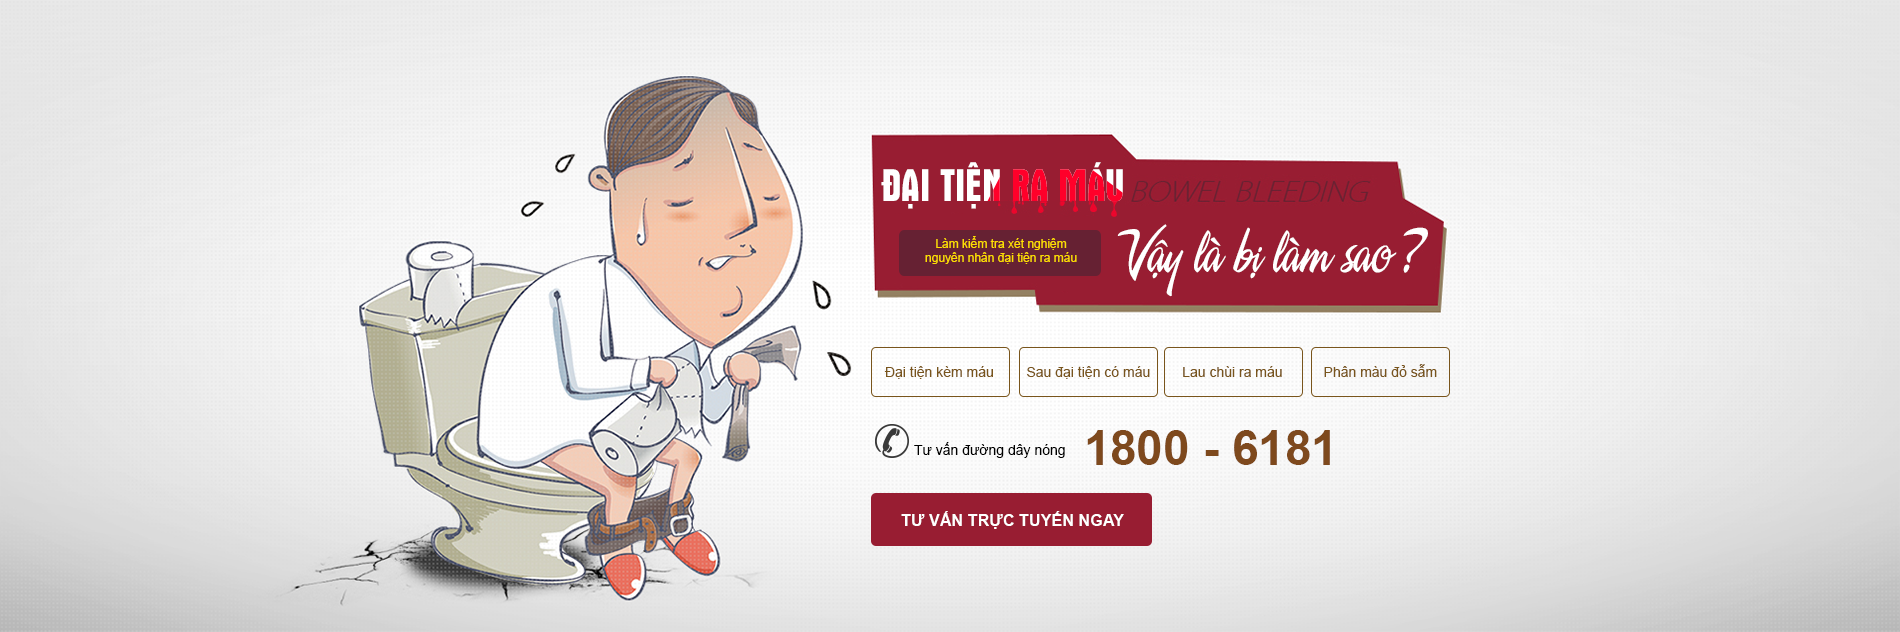
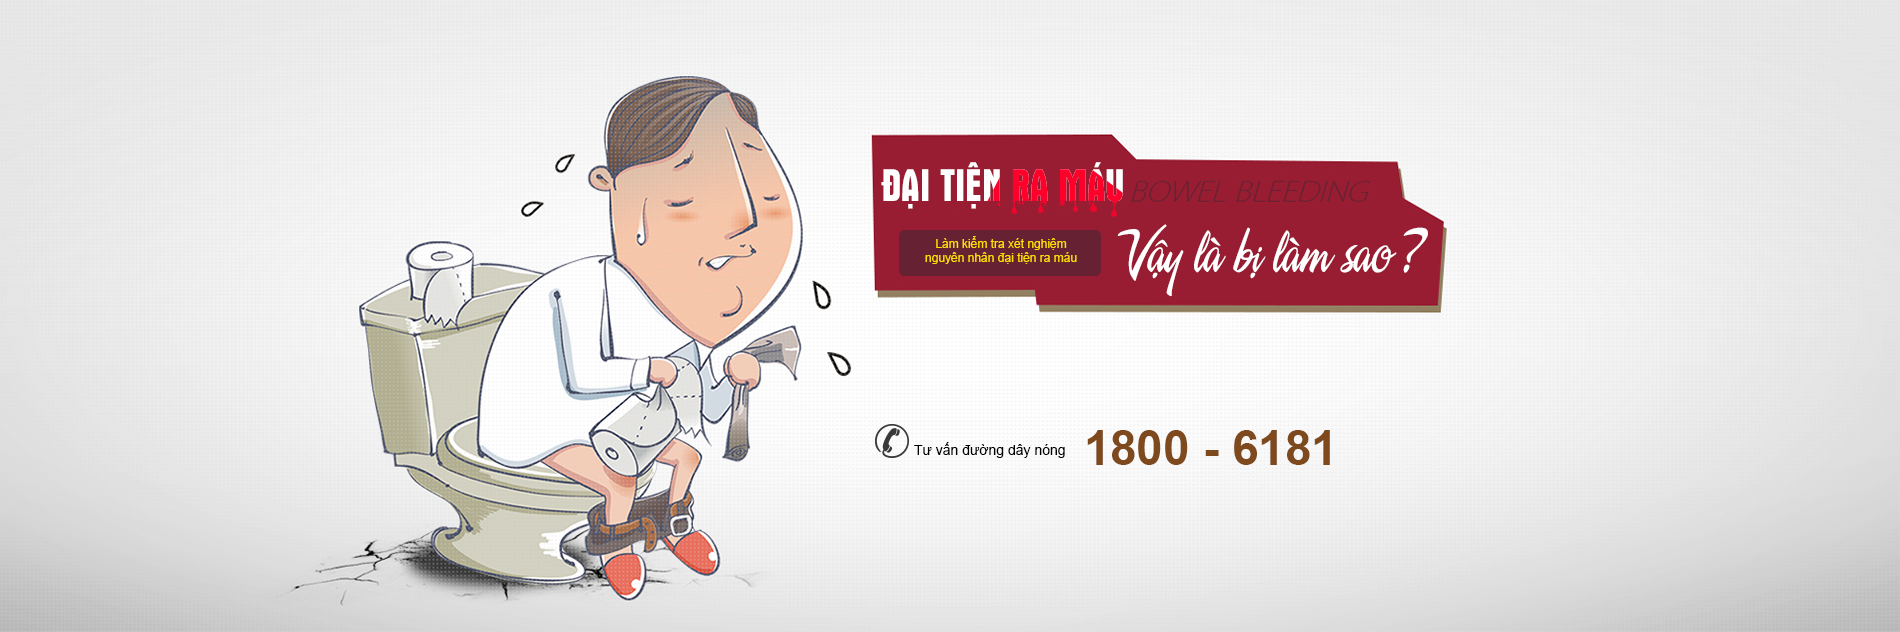
oke

Changed region(s): [[0.4347, 0.7816, 0.6211, 0.8718], [0.4658, 0.5712, 0.7763, 0.6013]]

diff --git a/public/css/chuyende2/chuyende2.css b/public/css/chuyende2/chuyende2.css
@@ -1,3 +1,15 @@
+.myBanner .btn{height: 50px;width: 150px;line-height: 50px;border:1px solid #79551c;color: #79551c;border-radius: 5px;display: inline-block;background-color: transparent;}
+.myBanner .btn.pos1{top:360px;left: 421px;}
+.myBanner .btn.pos2{top:360px;left: 580px;}
+.myBanner .btn.pos3{top:360px;left: 738px;}
+.myBanner .btn.pos4{top:360px;left: 896px;}
+.myBanner{background-image: url('chuyende-1.png');background-repeat: no-repeat;height: 632px;}
+.myBanner .btn2{height: 53px;line-height: 53px;background-color: #981d32;width: 281px;color: #fff;font-size: 16px;font-weight: bold;}
+.myBanner .btn2{left: 421px;top:495px;border-radius: 5px;}
+.myBanner .btn:hover{background-color: #79551c;color: #fff;}
+.myBanner .btn2:hover{background-color: #79551c;color: #fff;}
+
+/**/
 div.global1 .line1,div.global1 .line2{font-weight: bold;font-size: 24px;}
 div.global1 .line2{margin-top: 2px;}
 div.global1 .line3{font-size: 14px;color: #787878;margin-top: 10px;}
@@ -36,7 +48,7 @@ div.row1 .flex1col2 .label5{margin-top:25px;height: 46px;line-height: 46px;backg
 /**/
 div.row2{background-color: #f6eaec;padding-top: 35px;padding-bottom: 33px;}
 div.row2 .table{margin-top: 32px;}
-div.row2 .table table{border-spacing: 0px;color: #}
+div.row2 .table table{border-spacing: 0px;}
 div.row2 .table table tr td:nth-child(1){padding-right: 55px;}
 div.row2 .table table tr td{padding-bottom:25px;}
 div.row2 .table table tr td >div{position: relative;padding-left: 40px;}
@@ -54,6 +66,7 @@ div.row3 .flex1col1{width: 243px;}
 div.row3 .flex1col2{width: 660px;}
 div.row3 .flex1col2 .label{background-color: #981d32;color: #fff;text-align: center;height: 33px;width: 250px;line-height: 33px;display: inline-block;}
 div.row3 .flex1col2 .table{margin-top: 20px;margin-bottom: 20px;}
+div.row3 .flex1col2 .table td{width: 33.33%}
 div.row3 .flex1col2 .table input{margin-right: 10px;vertical-align: -2px;}
 div.row3 .btn{margin-top: 30px;}
 div.row3 .btn a{width: 270px;height: 43px;border:1px solid #797979;border-radius: 10px;line-height: 43px;}
@@ -79,7 +92,7 @@ div.row5 .flex1col1{width: 460px;background-color: #fff;}
 div.row5 .flex1col2{width: 468px;background-color: #fff;}
 div.row5 .flex1col1{padding:47px 40px;}
 div.row5 .title1{color: #333333;display: inline-block;padding-bottom: 10px;border-bottom: 1px solid #333333;}
-div.row5 .flex1col1 .name{color: #191919;margin-top: 25px;}
+div.row5 .flex1col1 .name{color: #191919;margin-top: 50px;}
 div.row5 .flex1col1 .img{margin-top: 5px;}
 div.row5 .flex1col1 .btn{margin-top: 45px;text-align: center;}
 div.row5 .flex1col1 .btn a{width: 355px;height: 43px;border:1px solid #797979;border-radius: 10px;line-height: 43px;}
@@ -120,7 +133,6 @@ div.row6 .table2 tr td{width: 20%;}
 .row9 .lists i{color: #794033;}
 .row9 .lists a{margin-left: 10px;}
 .row9 .lists a:nth-child(1){margin-left: 35px;}
-.row9 .pos-absolute{left: calc(50% - 99px);top:-133px;}
 /*effect*/
 footer{margin-top: 0px;}
 .btn a:hover{background-color: #424242;border-color: #424242;color: #fff;}
@@ -128,9 +140,6 @@ footer{margin-top: 0px;}
 div.row1 .flex1col1 .bg a:hover{background-color: #424242;color: #fff;}
 div.row6 .table a:hover{text-decoration: underline;}
 div.row6 .table2 tr td a:hover{text-decoration: underline;color: #971e31;}
-
-/*popup*/
-/*.mypopup2 {border:1px solid #282828;border-radius: 5px;padding:15px 25px;color: #313131;width: 450px;position: fixed;top:0px;left: calc(50% - 225px);background-color: #fff;}
-.mypopup2 .content{margin-top: 25px;color: #313131}
-.mypopup2 .name button{border:none;box-shadow: none;outline: none;right: 0px;top:-5px;background-color: transparent;font-size: 20px;cursor: pointer;}
-.mypopup2 .close button{border:1px solid #e0e0e0;border-radius: 3px;height: 31px;width: 73px;text-align: center;text-transform: uppercase;background-color: transparent;cursor: pointer;}*/
+.row9 .lists a:hover{text-decoration: underline;color: #794033;}
+.row9 .sendmail button{cursor: pointer;}
+.row9 .sendmail button:hover{background-color: #43b3a3;}

diff --git a/resources/views/layouts/menuDesktop.blade.php b/resources/views/layouts/menuDesktop.blade.php
@@ -29,83 +29,83 @@
 	</div>
 </menu>
 <div class="row1">
-		<div class="container">
-			<div class="items">
-				<div class="item active">
-					<div class="dis-table table1">
-						<div class="table-cell cell1 bg1">
-							<a href="#">chuyên khoa<br>trĩ</a>
-						</div>
-						<div class="table-cell cell2">
-							<table class="width-100">
-								<tr>
-									<td class="text-left"><a href="{{ APITerm::getUrlByID(2) }}"><i class="fa fa-circle"></i> Trĩ ngoại</a></td>
-									<td class="text-left"><a href="{{ APITerm::getUrlByID(3) }}"><i class="fa fa-circle"></i> Trĩ nội</a></td>
-								</tr>
-								<tr>
-									<td class="text-left"><a href="{{ APITerm::getUrlByID(4) }}"><i class="fa fa-circle"></i> Trĩ hỗn hợp</a></td>
-								</tr>
-							</table>
-						</div>
+	<div class="container">
+		<div class="items">
+			<div class="item active">
+				<div class="dis-table table1">
+					<div class="table-cell cell1 bg1">
+						<a href="#">chuyên khoa<br>trĩ</a>
+					</div>
+					<div class="table-cell cell2">
+						<table class="width-100">
+							<tr>
+								<td class="text-left"><a href="{{ APITerm::getUrlByID(2) }}"><i class="fa fa-circle"></i> Trĩ ngoại</a></td>
+								<td class="text-left"><a href="{{ APITerm::getUrlByID(3) }}"><i class="fa fa-circle"></i> Trĩ nội</a></td>
+							</tr>
+							<tr>
+								<td class="text-left"><a href="{{ APITerm::getUrlByID(4) }}"><i class="fa fa-circle"></i> Trĩ hỗn hợp</a></td>
+							</tr>
+						</table>
 					</div>
 				</div>
-				<div class="item">
-					<div class="dis-table table1">
-						<div class="table-cell cell1 bg2">
-							<a href="#">bệnh quanh<br>hậu môn</a>
-						</div>
-						<div class="table-cell cell2">
-							<table class="width-100">
-								<tr>
-									<td class="text-left" style="vertical-align: top;"><a href="{{ APITerm::getUrlByID(6) }}"><i class="fa fa-circle"></i> Áp xe hậu môn</a></td>
-									<td class="text-left"><a href="{{ APITerm::getUrlByID(7) }}"><i class="fa fa-circle"></i> Ngứa rát hậu môn</a></td>
-								</tr>
-								<tr>
-									<td class="text-left"><a href="{{ APITerm::getUrlByID(8) }}"><i class="fa fa-circle"></i> Polyp hậu môn</a></td>
-									<td class="text-left"><a href="{{ APITerm::getUrlByID(9) }}"><i class="fa fa-circle"></i> Đau hậu môn</a></td>
-								</tr>
-								<tr>
-									<td class="text-left"><a href="{{ APITerm::getUrlByID(10) }}"><i class="fa fa-circle"></i> Hậu môn có vật thể lạ</a></td>
-								</tr>
-							</table>
-						</div>
+			</div>
+			<div class="item">
+				<div class="dis-table table1">
+					<div class="table-cell cell1 bg2">
+						<a href="#">bệnh quanh<br>hậu môn</a>
+					</div>
+					<div class="table-cell cell2">
+						<table class="width-100">
+							<tr>
+								<td class="text-left" style="vertical-align: top;"><a href="{{ APITerm::getUrlByID(6) }}"><i class="fa fa-circle"></i> Áp xe hậu môn</a></td>
+								<td class="text-left"><a href="{{ APITerm::getUrlByID(7) }}"><i class="fa fa-circle"></i> Ngứa rát hậu môn</a></td>
+							</tr>
+							<tr>
+								<td class="text-left"><a href="{{ APITerm::getUrlByID(8) }}"><i class="fa fa-circle"></i> Polyp hậu môn</a></td>
+								<td class="text-left"><a href="{{ APITerm::getUrlByID(9) }}"><i class="fa fa-circle"></i> Đau hậu môn</a></td>
+							</tr>
+							<tr>
+								<td class="text-left"><a href="{{ APITerm::getUrlByID(10) }}"><i class="fa fa-circle"></i> Hậu môn có vật thể lạ</a></td>
+							</tr>
+						</table>
 					</div>
 				</div>
-				<div class="item">
-					<div class="dis-table table1">
-						<div class="table-cell cell1 bg3">
-							<a href="#">chấn thương<br>hậu môn</a>
-						</div>
-						<div class="table-cell cell2">
-							<table class="width-100">
-								<tr>
-									<td class="text-left"><a href="{{ APITerm::getUrlByID(12) }}"><i class="fa fa-circle"></i> Rò hậu môn</a></td>
-									<td class="text-left"><a href="{{ APITerm::getUrlByID(13) }}"><i class="fa fa-circle"></i> Nứt kẽ hậu môn</a></td>
-								</tr>
-								<tr>
-									<td class="text-left"><a href="{{ APITerm::getUrlByID(14) }}"><i class="fa fa-circle"></i> Sa trực tràng</a></td>
-								</tr>
-							</table>
-						</div>
+			</div>
+			<div class="item">
+				<div class="dis-table table1">
+					<div class="table-cell cell1 bg3">
+						<a href="#">chấn thương<br>hậu môn</a>
+					</div>
+					<div class="table-cell cell2">
+						<table class="width-100">
+							<tr>
+								<td class="text-left"><a href="{{ APITerm::getUrlByID(12) }}"><i class="fa fa-circle"></i> Rò hậu môn</a></td>
+								<td class="text-left"><a href="{{ APITerm::getUrlByID(13) }}"><i class="fa fa-circle"></i> Nứt kẽ hậu môn</a></td>
+							</tr>
+							<tr>
+								<td class="text-left"><a href="{{ APITerm::getUrlByID(14) }}"><i class="fa fa-circle"></i> Sa trực tràng</a></td>
+							</tr>
+						</table>
 					</div>
 				</div>
-				<div class="item">
-					<div class="dis-table table1">
-						<div class="table-cell cell1 bg4">
-							<a href="#">biểu hiện<br>thường gặp</a>
-						</div>
-						<div class="table-cell cell2">
-							<table class="width-100">
-								<tr>
-									<td class="text-left"><a href="{{ APITerm::getUrlByID(16) }}"><i class="fa fa-circle"></i> Đi ngoài ra máu</a></td>
-									<td class="text-left"><a href="{{ APITerm::getUrlByID(17) }}"><i class="fa fa-circle"></i> Táo bón</a></td>
-								</tr>
-							</table>
-						</div>
+			</div>
+			<div class="item">
+				<div class="dis-table table1">
+					<div class="table-cell cell1 bg4">
+						<a href="#">biểu hiện<br>thường gặp</a>
+					</div>
+					<div class="table-cell cell2">
+						<table class="width-100">
+							<tr>
+								<td class="text-left"><a href="{{ APITerm::getUrlByID(16) }}"><i class="fa fa-circle"></i> Đi ngoài ra máu</a></td>
+								<td class="text-left"><a href="{{ APITerm::getUrlByID(17) }}"><i class="fa fa-circle"></i> Táo bón</a></td>
+							</tr>
+						</table>
 					</div>
 				</div>
 			</div>
 		</div>
+	</div>
 </div>
 <div class="row2">
 	<div class="container">

diff --git a/resources/views/chuyende2.blade.php b/resources/views/chuyende2.blade.php
@@ -7,8 +7,12 @@
 @endsection('css')
 @section('banner')
 	<div class="myBanner">
-		<div>
-			<a href="http://swt.phongkham193.com/LR/Chatpre.aspx?id=MFI63108226&cid=1489654963660812714370&lng=en"><img src="{{ asset('public/css/chuyende2/chuyende-1.png') }}" alt="" class="center-block"></a>
+		<div class="pos-relative container2">
+			<a href="http://swt.phongkham193.com/LR/Chatpre.aspx?id=MFI63108226&cid=1489654963660812714370&lng=en" class="btn text-center pos-absolute pos1">Đại tiện kèm máu</a>
+			<a href="http://swt.phongkham193.com/LR/Chatpre.aspx?id=MFI63108226&cid=1489654963660812714370&lng=en" class="btn text-center pos-absolute pos2">Sau đại tiện có máu</a>
+			<a href="http://swt.phongkham193.com/LR/Chatpre.aspx?id=MFI63108226&cid=1489654963660812714370&lng=en" class="btn text-center pos-absolute pos3">Lau chùi ra máu</a>
+			<a href="http://swt.phongkham193.com/LR/Chatpre.aspx?id=MFI63108226&cid=1489654963660812714370&lng=en" class="btn text-center pos-absolute pos4">Phân màu đỏ sẫm</a>
+			<a href="http://swt.phongkham193.com/LR/Chatpre.aspx?id=MFI63108226&cid=1489654963660812714370&lng=en" class="btn2 text-center text-uppercase pos-absolute pos5">Tư vấn trực tuyến ngay</a>
 		</div>
 	</div>
 @endsection('banner')
@@ -226,18 +230,6 @@
 				</div>
 			</div>
 		</div>
-		<!-- <div class="mypopup2">
-			<div class="name pos-relative">
-				Hiển thị .comchuabenhtriohanoi
-				<button class="pos-absolute">x</button>
-			</div>
-			<div class="content text-justify">
-				Triệu chứng đại tiện ra máu của bạn là gì: <span>Máu màu nâu đậm, khi đại tiện nhỏ máu, không đau đớn, hậu môn ngứa ngáy;</span> những triệu chứng này cho thấy bạn đã mắc các chứng bệnh ở các giai đoạn khác nhau của bệnh hậu môn trực tràng! Hỏi thăm bác sĩ xem sao!
-			</div>
-			<div class="close text-right">
-				<button>OK</button>
-			</div>
-		</div> -->
 		<script>
 		function openswt(){
 		    window.open('http://swt.phongkham193.com/LR/Chatpre.aspx?id=MFI63108226&cid=1489654963660812714370&lng=en');
@@ -337,7 +329,7 @@
 								03
 							</div>
 							<div class="title text-center text-uppercase">Polyp trực tràng<br>,đại tràng</div>
-							<div class="text-justify des">
+							<div class="text-justify des" style="margin-top: 15px;">
 								Đại tiện ra máu, bên ngoài phân có dính lượng máu nhỏ, có khi kèm theo chất nhầy, thi thoảng có thịt thừa lồi ra.
 							</div>
 						</td>
@@ -346,7 +338,7 @@
 								04
 							</div>
 							<div class="title text-center text-uppercase">Viêm lỗ<br>hậu môn</div>
-							<div class="text-justify des">
+							<div class="text-justify des" style="margin-top: 33px;">
 								Đại tiện ra ít máu kèm theo mủ, khi đại tiện cảm giác đau đớn vô cùng rõ ràng
 							</div>
 						</td>
@@ -355,7 +347,7 @@
 								05
 							</div>
 							<div class="title text-center text-uppercase">Viêm loét<br>đại tràng</div>
-							<div class="text-justify des">
+							<div class="text-justify des" style="margin-top: 33px;">
 								Khi đại tiện ra máu có lẫn chất nhầy hoặc mủ, kèm theo hiện tượng đau bụng, sốt, đại tiện nhiều lần...
 							</div>
 						</td>
@@ -364,7 +356,7 @@
 								06
 							</div>
 							<div class="title text-center text-uppercase">Ung thư<br>đại trực tràng</div>
-							<div class="text-justify des">
+							<div class="text-justify des" style="margin-top: 33px;">
 								Đi đại tiện máu có màu đỏ sẫm hoặc đỏ tươi, lẫn vào phân hoặc dính bên ngoài, kèm theo chất nhầy, đệm hậu môn vô cùng khó chịu.
 							</div>
 						</td>
@@ -561,7 +553,7 @@
 		</div>
 	</div>
 	<div class="row9">
-		<div class="container pos-relative">
+		<div class="container">
 			<div class="name">Tư vấn nhanh qua đường dây nóng (miễn phí)</div>
 			<div class="img">
 				<img src="{{ asset('public/css/chuyende1/chuyende-49.png') }}" alt="" class="center-block">
@@ -581,9 +573,6 @@
 				<a href="http://swt.phongkham193.com/LR/Chatpre.aspx?id=MFI63108226&cid=1489654963660812714370&lng=en"><i class="fa fa-circle-o"></i> Chuyên gia điều trị, xây dựng phương án điều trị</a>
 				<a href="http://swt.phongkham193.com/LR/Chatpre.aspx?id=MFI63108226&cid=1489654963660812714370&lng=en"><i class="fa fa-circle-o"></i> Tư vấn từ xa, tiết kiệm thời gian công sức</a>
 				<a href="http://swt.phongkham193.com/LR/Chatpre.aspx?id=MFI63108226&cid=1489654963660812714370&lng=en"><i class="fa fa-circle-o"></i> Nghe điện miễn phí, xin hãy yên tâm</a>
-			</div>
-			<div class="pos-absolute">
-				<img src="{{ asset('public/css/chuyende2/chuyende-20.png') }}" alt="">
 			</div>
 		</div>
 	</div>
